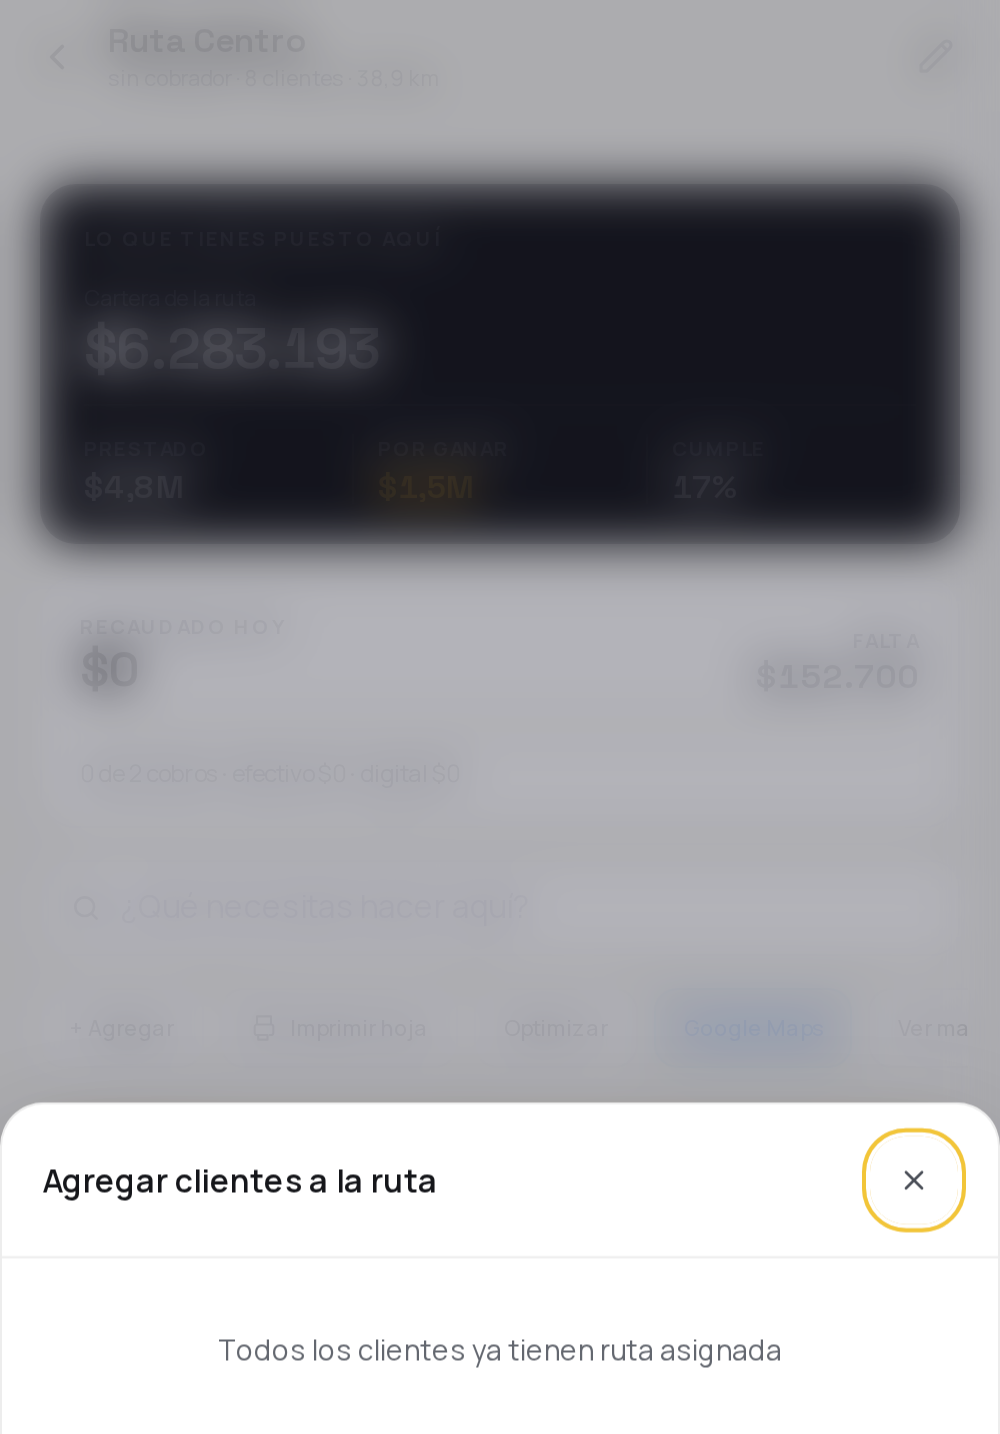
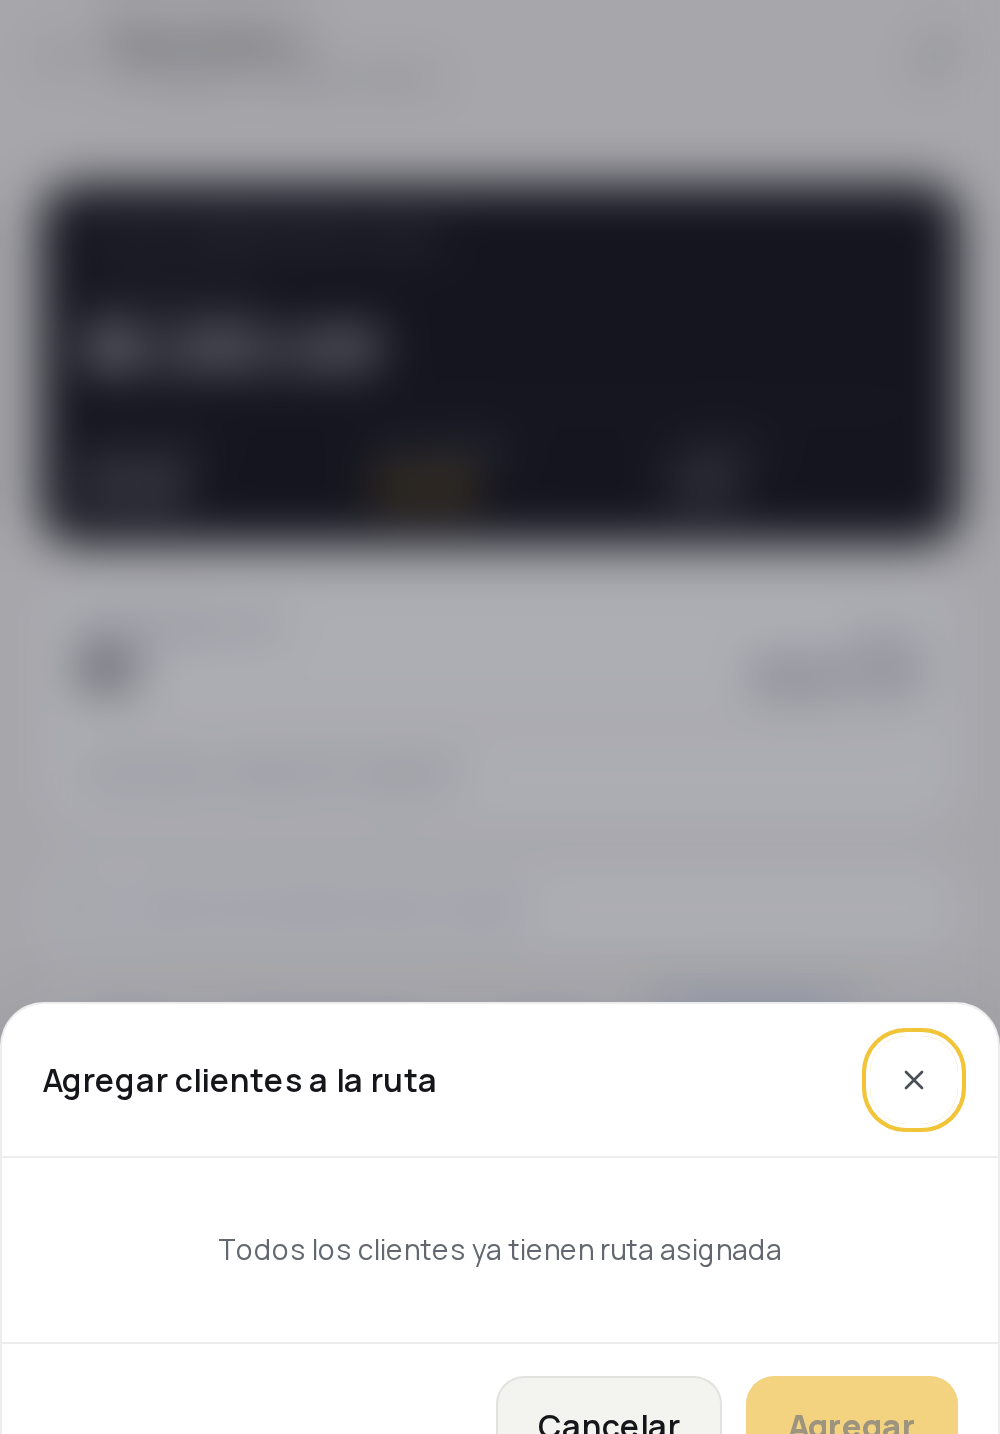
Una segunda vitrina, vacía, para las pantallas de primera vez
Lo pidió el dueño: «crear otra vitrina de cero a la que no le pusieras nada,
para poder hacer los otros tipos de capturas». Y era la pieza que faltaba.

Dos pasos se resistían a todo:

  · «Registrar capital inicial» — ese botón solo sale cuando el capital NO está
    configurado, y en cuanto hay un préstamo el desembolso ya lo configura. En
    la vitrina llena no existe, y no hay forma de que exista sin borrarle los
    movimientos a sus propios préstamos.
  · «Crear primera ruta» — y aquí apareció algo que no sabía: el rótulo cambia
    con el estado. «Nueva ruta» SOLO existe cuando ya tienes rutas; sin ninguna
    el botón se llama «Crear primera ruta». La guía buscaba el rótulo del
    estado contrario al que explica.

Los dos son la pantalla de PRIMERA VEZ, y esa no puede convivir con un negocio
que ya tiene cartera. Así que ahora hay dos:

  · «Créditos La Esperanza» — la llena, la que siembra el guion.
  · «Mi Negocio Nuevo»      — la de cero. NO SE SIEMBRA NUNCA: su valor es
                              estar vacía.

Un paso pide la que necesita con `vitrina: 'vacia'`. El guion abre la segunda
sesión solo si alguna guía la reclama.

⚠ La comprobación de seguridad va AL REVÉS en cada una: a la llena se le exige
que sus clientes estén en la lista blanca; a la vacía, estar VACÍA. Si algún día
tuviera clientes, o la sesión apunta a otro sitio o alguien la usó para trabajar,
y en los dos casos fotografiarla publicaría datos de alguien.
[…]

diff --git a/lib/tutoriales/pasos.js b/lib/tutoriales/pasos.js
@@ -95,6 +95,7 @@ export const PASOS_GUIA = {
   ],
   'crear-ruta': [
     { src: '/tutoriales/crear-ruta-1.png', caption: "Entra a «Rutas» y toca el botón de ruta nueva" },
+    { src: '/tutoriales/crear-ruta-2.png', caption: "Ponle nombre, elige quién la cobra y qué clientes lleva" },
   ],
   'enrutar-desenrutar': [
     { src: '/tutoriales/enrutar-desenrutar-1.png', caption: "Abre la ruta y toca «+ Agregar»" },
@@ -124,6 +125,7 @@ export const PASOS_GUIA = {
   ],
   'capital': [
     { src: '/tutoriales/capital-1.png', caption: "Entra a «Mi plata». Es el fondo del que sale todo" },
+    { src: '/tutoriales/capital-2.png', caption: "Si es la primera vez, registra el capital con el que arrancaste" },
   ],
   'socios': [
     { src: '/tutoriales/socios-1.png', caption: "Entra a «Socios». Aquí va quién más pone plata" },

diff --git a/public/sw.js b/public/sw.js
@@ -1,5 +1,5 @@
 // Service Worker — Control Finanzas PWA
-const CACHE_NAME   = 'cf-v1034'
+const CACHE_NAME   = 'cf-v1035'
 // API_CACHE solo sube cuando cambian las CIFRAS que devuelve el servidor.
 //
 // Este release SÍ las cambia, en `/api/cobros-hoy` (Adenda 5):
